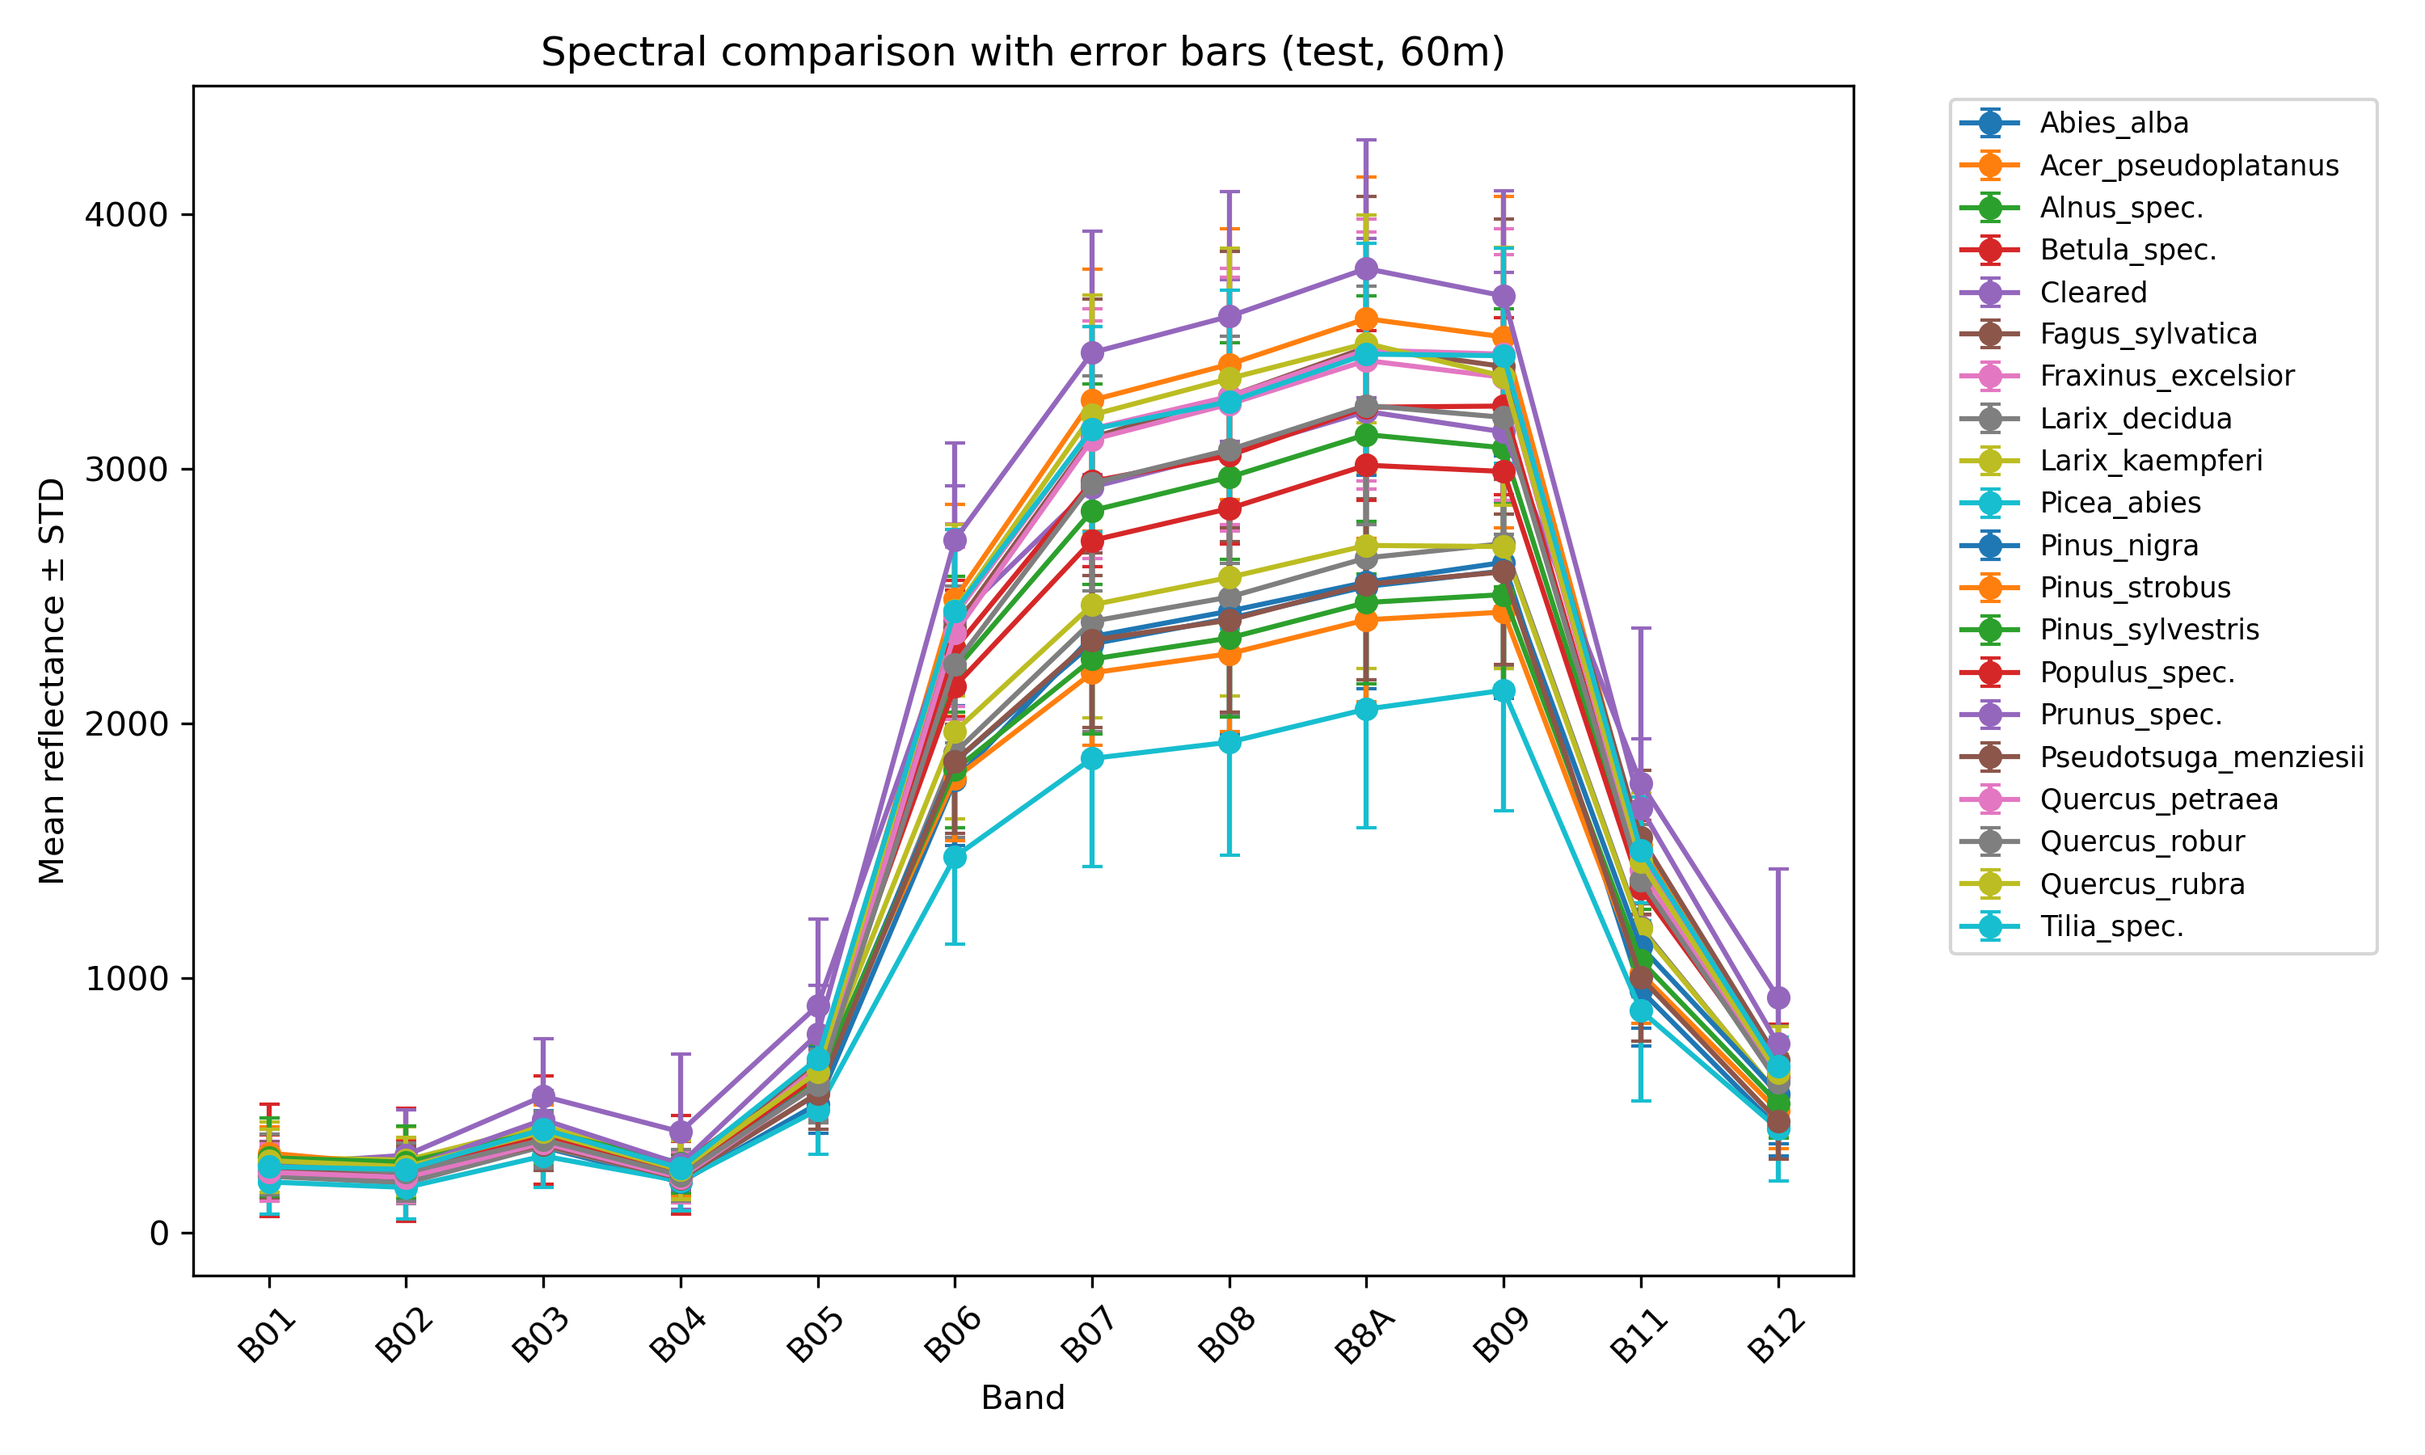
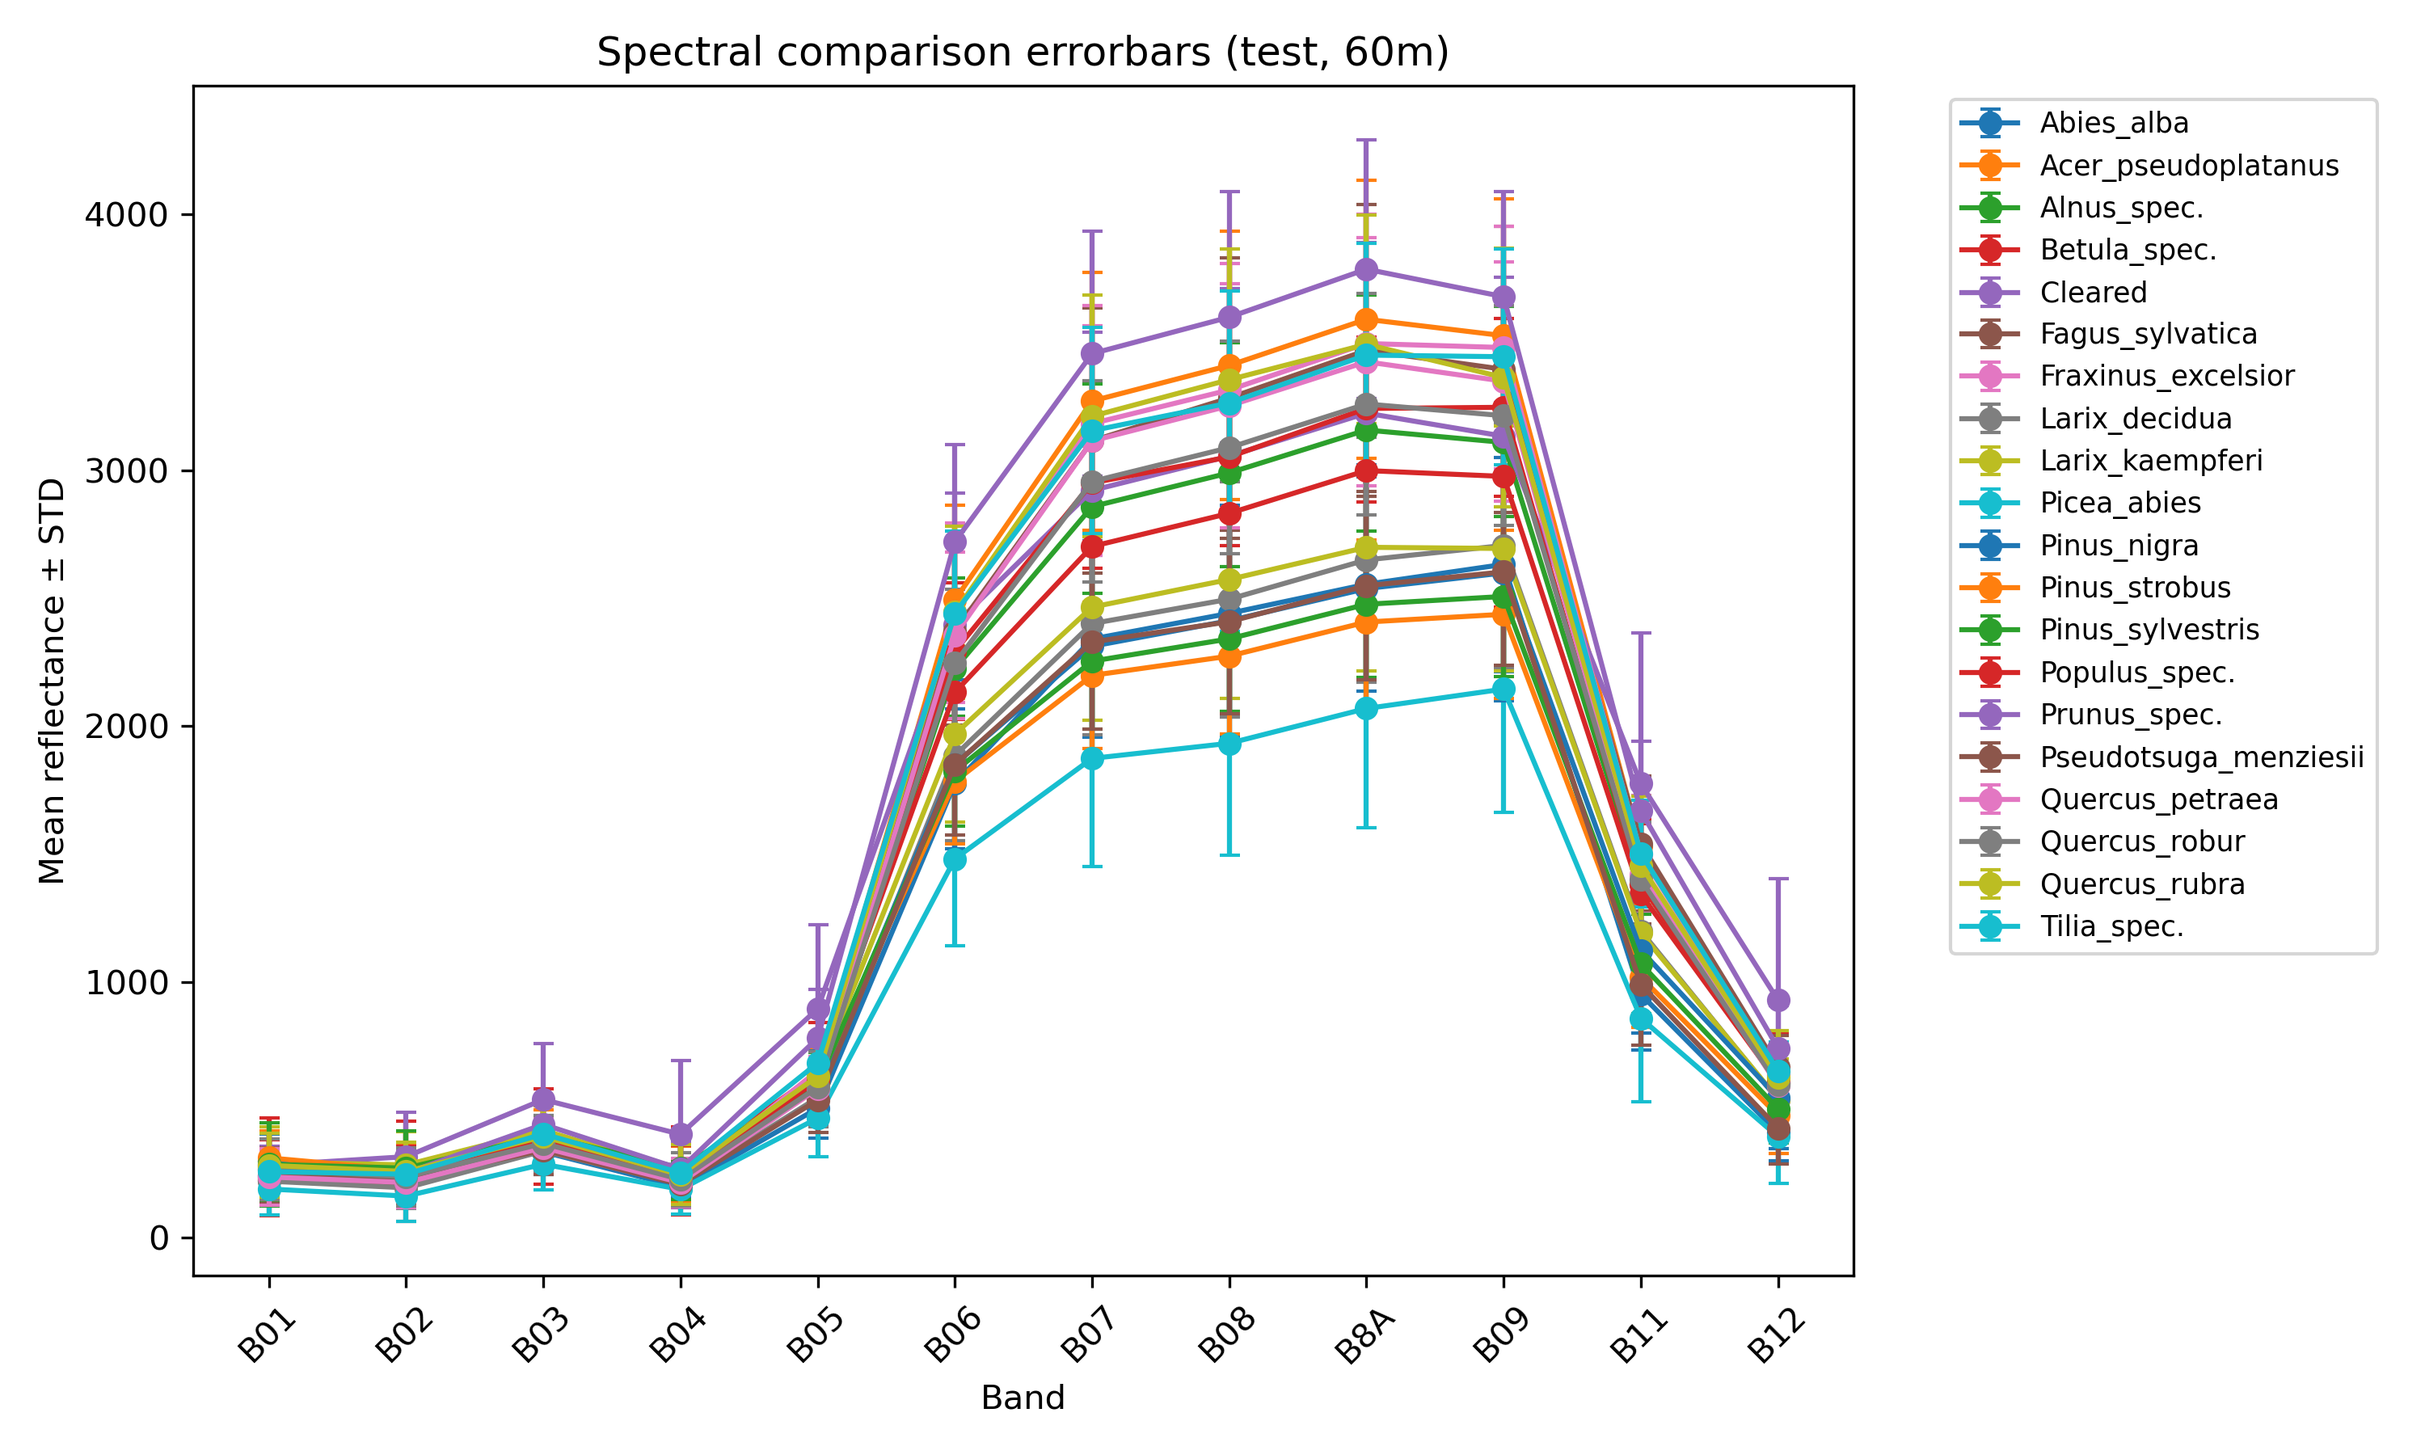
Added utils.py to hold common definitions and functions, fixed preprocessing.py to reflect this change, added eda.py to do data exploration.

diff --git a/src/preprocessing.py b/src/preprocessing.py
@@ -1,51 +1,23 @@
 #!/usr/bin/env python3
 import os
 import random
-import rasterio
 import numpy as np
 import matplotlib.pyplot as plt
+from utils import (
+    ROOT_DIR, TRAIN_LIST, TEST_LIST, BAND_ORDER, REORDER_IDX,
+    load_split_list, parse_species, get_paths_for_split, compute_patch_mean
+)
 
-# Config
-ROOT_DIR = "s2"  # contains s2/60m and s2/200m
-TRAIN_LIST = "train_filenames.lst"
-TEST_LIST = "test_filenames.lst"
-OUTPUT_DIR = "results"
-SAMPLE_SIZE = 200  # max patches per species for spectral comparison
-
-SRC_BAND_ORDER = [
-    "B02", "B03", "B04", "B08", "B05", "B06", "B07",
-    "B8A", "B11", "B12", "B01", "B09"
-]
-BAND_ORDER = [
-    "B01", "B02", "B03", "B04", "B05", "B06", "B07",
-    "B08", "B8A", "B09", "B11", "B12"
-]
-REORDER_IDX = [SRC_BAND_ORDER.index(b) for b in BAND_ORDER]
+OUTPUT_DIR = "results"          # where plots are saved
+SAMPLE_SIZE = 300                # max patches per species for spectral graphs
 
 
-def load_split_list(path):
-    with open(path) as f:
-        return [line.strip() for line in f if line.strip()]
-
-
-def parse_species(fname):
-    base = os.path.splitext(os.path.basename(fname))[0]
-    parts = base.split("_")
-    if parts[0].lower() == "cleared":
-        return "Cleared"
-    return f"{parts[0]}_{parts[1]}"
-
-
-def get_paths_for_species(basenames, resolution):
+def build_species_map(basenames, resolution):
+    paths = get_paths_for_split(basenames, resolution)
     species_map = {}
-    res_dir = os.path.join(ROOT_DIR, resolution)
-    for name in basenames:
-        sp = parse_species(name)
-        path = os.path.join(res_dir, name)
-        if os.path.isfile(path):
-            species_map.setdefault(sp, []).append(path)
-        else:
-            print(f"Warning: missing file {path}")
+    for p in paths:
+        sp = parse_species(os.path.basename(p))
+        species_map.setdefault(sp, []).append(p)
     return species_map
 
 
@@ -67,72 +39,46 @@ def plot_species_distribution(basenames, split):
 
 
 def compute_spectra_stats(paths):
-    """
-    Load up to SAMPLE_SIZE patches, reorder bands, and compute mean and std per band.
-    Returns (mean_spectrum, std_spectrum) arrays of shape (len(BAND_ORDER),).
-    """
-    selected = paths if len(paths) <= SAMPLE_SIZE else random.sample(paths, SAMPLE_SIZE)
-    spectra = []
-    for p in selected:
-        with rasterio.open(p) as src:
-            data = src.read().astype(np.float32)
-        data = data[REORDER_IDX]  # reorder bands
-        spectra.append(data.reshape(data.shape[0], -1).mean(axis=1))
-    arr = np.stack(spectra)
+    sel = paths if len(paths) <= SAMPLE_SIZE else random.sample(paths, SAMPLE_SIZE)
+    arr = [compute_patch_mean(p) for p in sel]
+    arr = np.stack(arr)
     return arr.mean(axis=0), arr.std(axis=0)
 
 
-def plot_spectral_comparison(species_map, split, resolution):
-    plt.figure(figsize=(10, 6))
-    for sp, paths in species_map.items():
-        if not paths:
-            continue
-        mean_spec, _ = compute_spectra_stats(paths)
-        plt.plot(range(len(BAND_ORDER)), mean_spec, marker='o', label=sp)
-    plt.xticks(range(len(BAND_ORDER)), BAND_ORDER, rotation=45)
-    plt.xlabel("Band")
-    plt.ylabel("Mean reflectance")
-    plt.title(f"Spectral comparison ({split}, {resolution})")
-    plt.legend(bbox_to_anchor=(1.05, 1), loc='upper left', fontsize='small')
-    plt.tight_layout()
-    fname = f"spectral_comparison_{split}_{resolution}.png"
-    plt.savefig(os.path.join(OUTPUT_DIR, fname), dpi=300)
-    plt.close()
-
-
-def plot_spectral_errorbars(species_map, split, resolution):
+def plot_spectral_comparison(species_map, split, resolution, errorbars=False):
     plt.figure(figsize=(10, 6))
     for sp, paths in species_map.items():
         if not paths:
             continue
         mean_spec, std_spec = compute_spectra_stats(paths)
-        plt.errorbar(
-            range(len(BAND_ORDER)), mean_spec, yerr=std_spec,
-            fmt='-o', capsize=3, label=sp
-        )
+        if errorbars:
+            plt.errorbar(range(len(BAND_ORDER)), mean_spec, yerr=std_spec,
+                         fmt='-o', capsize=3, label=sp)
+        else:
+            plt.plot(range(len(BAND_ORDER)), mean_spec, marker='o', label=sp)
     plt.xticks(range(len(BAND_ORDER)), BAND_ORDER, rotation=45)
     plt.xlabel("Band")
-    plt.ylabel("Mean reflectance ± STD")
-    plt.title(f"Spectral comparison with error bars ({split}, {resolution})")
+    plt.ylabel("Mean reflectance" + (" ± STD" if errorbars else ""))
+    suffix = "errorbars" if errorbars else ""
+    plt.title(f"Spectral comparison {suffix} ({split}, {resolution})")
     plt.legend(bbox_to_anchor=(1.05, 1), loc='upper left', fontsize='small')
     plt.tight_layout()
-    fname = f"spectral_comparison_errorbars_{split}_{resolution}.png"
-    plt.savefig(os.path.join(OUTPUT_DIR, fname), dpi=300)
+    tag = f"spectral_comparison_{suffix}_{split}_{resolution}".strip("_")
+    plt.savefig(os.path.join(OUTPUT_DIR, f"{tag}.png"), dpi=300)
     plt.close()
 
 
 def main():
     os.makedirs(OUTPUT_DIR, exist_ok=True)
-    train = load_split_list(TRAIN_LIST)
-    test = load_split_list(TEST_LIST)
-    for split, basenames in [('train', train), ('test', test)]:
-        # species distribution
-        plot_species_distribution(basenames, split)
-        # spectral comparison and error bars
-        for res in ['60m', '200m']:
-            species_map = get_paths_for_species(basenames, res)
-            plot_spectral_comparison(species_map, split, res)
-            plot_spectral_errorbars(species_map, split, res)
+    train_names = load_split_list(TRAIN_LIST)
+    test_names  = load_split_list(TEST_LIST)
 
-if __name__ == '__main__':
+    for split, names in [("train", train_names), ("test", test_names)]:
+        plot_species_distribution(names, split)
+        for res in ["60m", "200m"]:
+            sp_map = build_species_map(names, res)
+            plot_spectral_comparison(sp_map, split, res, errorbars=False)
+            plot_spectral_comparison(sp_map, split, res, errorbars=True)
+
+if __name__ == "__main__":
     main()

diff --git a/src/eda.py b/src/eda.py
@@ -1,0 +1,142 @@
+#!/usr/bin/env python3
+import os
+import random
+import numpy as np
+import matplotlib.pyplot as plt
+from scipy.stats import f_oneway
+from sklearn.feature_selection import mutual_info_classif
+from sklearn.decomposition import PCA
+from sklearn.preprocessing import StandardScaler
+from sklearn.metrics import silhouette_score
+
+from utils import (
+    load_split_list,
+    parse_species,
+    get_paths_for_split,
+    compute_patch_mean,
+    BAND_ORDER,
+    REORDER_IDX
+)
+
+# Configuration
+TRAIN_LIST = "train_filenames.lst"
+RESOLUTIONS = ["60m", "200m"]
+OUTPUT_DIR = "results/eda"
+MAX_SAMPLES_PER_SPECIES = 200  # cap to avoid overload
+RANDOM_STATE = 42
+
+
+def gather_data(split_files, resolution):
+    """
+    Sample patches per species and compute mean spectra.
+    Returns X (n_samples x n_bands), y (n_samples labels).
+    """
+    species_map = {}
+    paths = get_paths_for_split(split_files, "s2", resolution)
+    for p in paths:
+        sp = parse_species(os.path.basename(p))
+        species_map.setdefault(sp, []).append(p)
+    X, y = [], []
+    for sp, ps in species_map.items():
+        selected = ps if len(ps) <= MAX_SAMPLES_PER_SPECIES else random.Random(RANDOM_STATE).sample(ps, MAX_SAMPLES_PER_SPECIES)
+        for p in selected:
+            vec = compute_patch_mean(p)
+            X.append(vec)
+            y.append(sp)
+    return np.stack(X), np.array(y)
+
+
+def plot_boxplots(X, y, resolution):
+    os.makedirs(OUTPUT_DIR, exist_ok=True)
+    species = np.unique(y)
+    n_bands = X.shape[1]
+    data_by_band = []
+    for i in range(n_bands):
+        vals = [X[y == sp, i] for sp in species]
+        data_by_band.append(vals)
+    fig, axes = plt.subplots(3, 4, figsize=(16, 12))
+    axes = axes.flatten()
+    for i, ax in enumerate(axes[:n_bands]):
+        ax.boxplot(data_by_band[i], tick_labels=species, showfliers=False)
+        ax.set_title(BAND_ORDER[i])
+        ax.tick_params(axis='x', rotation=90)
+    fig.suptitle(f"Boxplots of mean reflectance by species ({resolution})")
+    plt.tight_layout(rect=[0, 0, 1, 0.96])
+    plt.savefig(os.path.join(OUTPUT_DIR, f"boxplots_{resolution}.png"), dpi=300)
+    plt.close()
+
+
+def plot_correlation_heatmap(X, resolution):
+    os.makedirs(OUTPUT_DIR, exist_ok=True)
+    corr = np.corrcoef(X.T)
+    plt.figure(figsize=(8, 6))
+    im = plt.imshow(corr, vmin=-1, vmax=1)
+    plt.colorbar(im, fraction=0.046, pad=0.04)
+    plt.xticks(range(len(BAND_ORDER)), BAND_ORDER, rotation=45)
+    plt.yticks(range(len(BAND_ORDER)), BAND_ORDER)
+    plt.title(f"Band correlation heatmap ({resolution})")
+    plt.tight_layout()
+    plt.savefig(os.path.join(OUTPUT_DIR, f"corr_heatmap_{resolution}.png"), dpi=300)
+    plt.close()
+
+
+def plot_pca_scatter(X, y, resolution):
+    os.makedirs(OUTPUT_DIR, exist_ok=True)
+    X_scaled = StandardScaler().fit_transform(X)
+    pc = PCA(n_components=2, random_state=RANDOM_STATE).fit_transform(X_scaled)
+    species = np.unique(y)
+    plt.figure(figsize=(10, 8))
+    for sp in species:
+        mask = y == sp
+        plt.scatter(pc[mask, 0], pc[mask, 1], label=sp, s=20, alpha=0.6)
+    plt.xlabel("PC1")
+    plt.ylabel("PC2")
+    plt.title(f"PCA scatter ({resolution})")
+    plt.legend(bbox_to_anchor=(1.05, 1), loc='upper left', fontsize='small')
+    plt.tight_layout()
+    plt.savefig(os.path.join(OUTPUT_DIR, f"pca_scatter_{resolution}.png"), dpi=300)
+    plt.close()
+
+
+def numeric_eda(X, y):
+    """
+    Compute and print ANOVA F-statistics, mutual information, and silhouette score.
+    """
+    species = np.unique(y)
+    print("\n=== ANOVA F-statistics per band ===")
+    f_stats = []
+    for i, band in enumerate(BAND_ORDER):
+        groups = [X[y == sp, i] for sp in species if np.sum(y == sp) > 1]
+        if len(groups) > 1:
+            fval, pval = f_oneway(*groups)
+        else:
+            fval, pval = np.nan, np.nan
+        f_stats.append((band, fval, pval))
+    for band, fval, pval in f_stats:
+        print(f"{band}: F={fval:.3f}, p={pval:.3e}")
+
+    print("\n=== Mutual Information per band ===")
+    mi = mutual_info_classif(X, y, discrete_features=False, random_state=RANDOM_STATE)
+    for band, val in zip(BAND_ORDER, mi):
+        print(f"{band}: MI={val:.3f}")
+
+    print("\n=== Silhouette score on 2D PCA ===")
+    try:
+        sil = silhouette_score(PCA(n_components=2, random_state=RANDOM_STATE).fit_transform(StandardScaler().fit_transform(X)), y)
+        print(f"Silhouette score: {sil:.3f}")
+    except Exception as e:
+        print(f"Silhouette score error: {e}")
+
+
+def main():
+    os.makedirs(OUTPUT_DIR, exist_ok=True)
+    train_files = load_split_list(TRAIN_LIST)
+    for res in RESOLUTIONS:
+        X, y = gather_data(train_files, res)
+        plot_boxplots(X, y, res)
+        plot_correlation_heatmap(X, res)
+        plot_pca_scatter(X, y, res)
+        numeric_eda(X, y)
+
+if __name__ == '__main__':
+    main()

diff --git a/src/utils.py b/src/utils.py
@@ -1,0 +1,47 @@
+#!/usr/bin/env python3
+"""
+Shared utilities for Sentinel-2 tree-species classification pipeline.
+"""
+import os
+import random
+import rasterio
+import numpy as np
+
+ROOT_DIR = "s2"          # folder that holds s2/60m and s2/200m subfolders
+TRAIN_LIST = "train_filenames.lst"
+TEST_LIST  = "test_filenames.lst"
+
+SRC_BAND_ORDER = [
+    "B02", "B03", "B04", "B08", "B05", "B06", "B07",
+    "B8A", "B11", "B12", "B01", "B09"
+]
+BAND_ORDER = [
+    "B01", "B02", "B03", "B04", "B05", "B06", "B07",
+    "B08", "B8A", "B09", "B11", "B12"
+]
+REORDER_IDX = [SRC_BAND_ORDER.index(b) for b in BAND_ORDER]
+
+def load_split_list(path: str) -> list[str]:
+    """Return list of filenames (no path) from a .lst file."""
+    with open(path) as f:
+        return [ln.strip() for ln in f if ln.strip()]
+
+def parse_species(fname: str) -> str:
+    """Return genus_species or 'Cleared' from a patch filename."""
+    base = os.path.splitext(os.path.basename(fname))[0]
+    parts = base.split("_")
+    return "Cleared" if parts[0].lower() == "cleared" else f"{parts[0]}_{parts[1]}"
+
+def get_paths_for_split(basenames: list[str], resolution: str) -> list[str]:
+    """Full paths for the given basenames inside ROOT_DIR/<resolution>/."""
+    dir_path = os.path.join(ROOT_DIR, resolution)
+    return [os.path.join(dir_path, f) for f in basenames
+            if os.path.isfile(os.path.join(dir_path, f))]
+
+# --- Patch-level feature ----------------------------------------------------
+def compute_patch_mean(path: str, reorder_idx: list[int] = REORDER_IDX) -> np.ndarray:
+    """Read a patch, reorder bands, return mean reflectance per band (len 12)."""
+    with rasterio.open(path) as src:
+        data = src.read().astype(np.float32)          # shape (12, H, W)
+    data = data[reorder_idx]                          # reorder to BAND_ORDER
+    return data.reshape(data.shape[0], -1).mean(axis=1)
